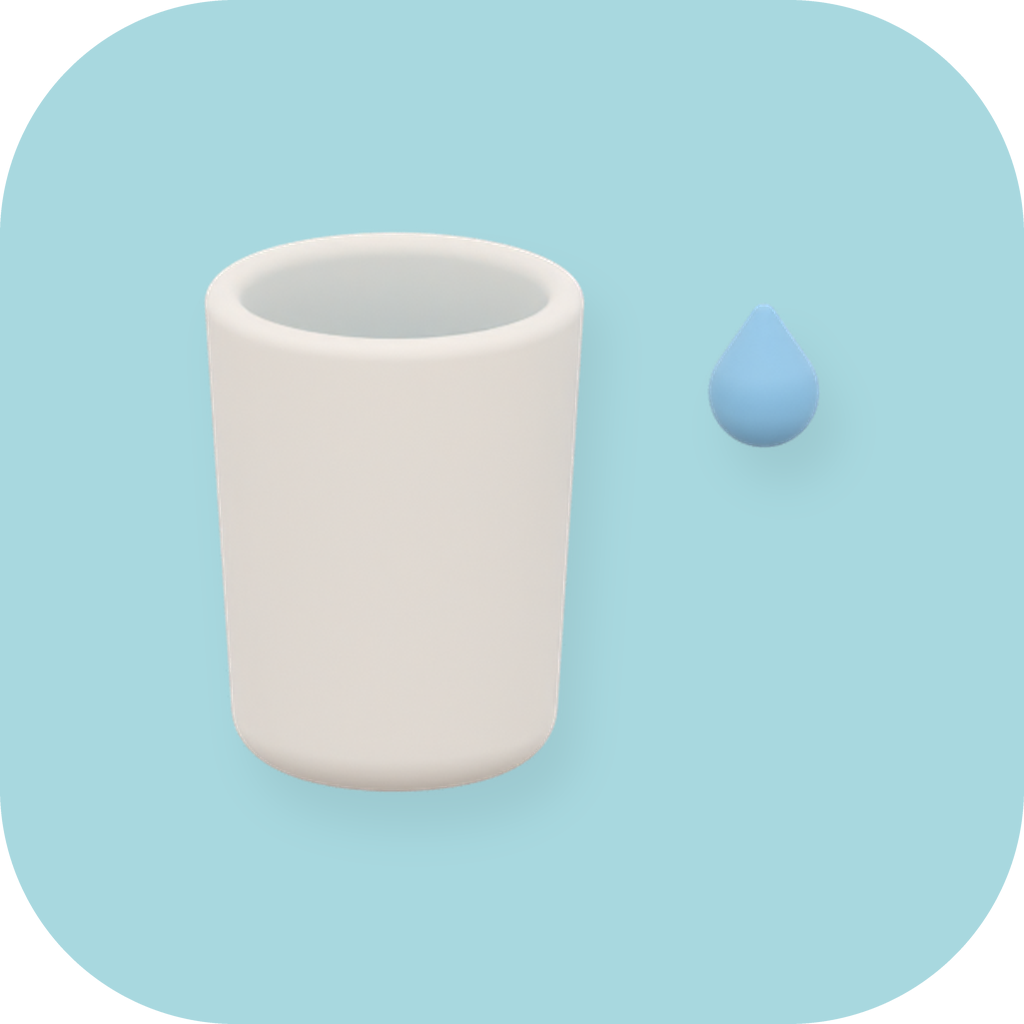
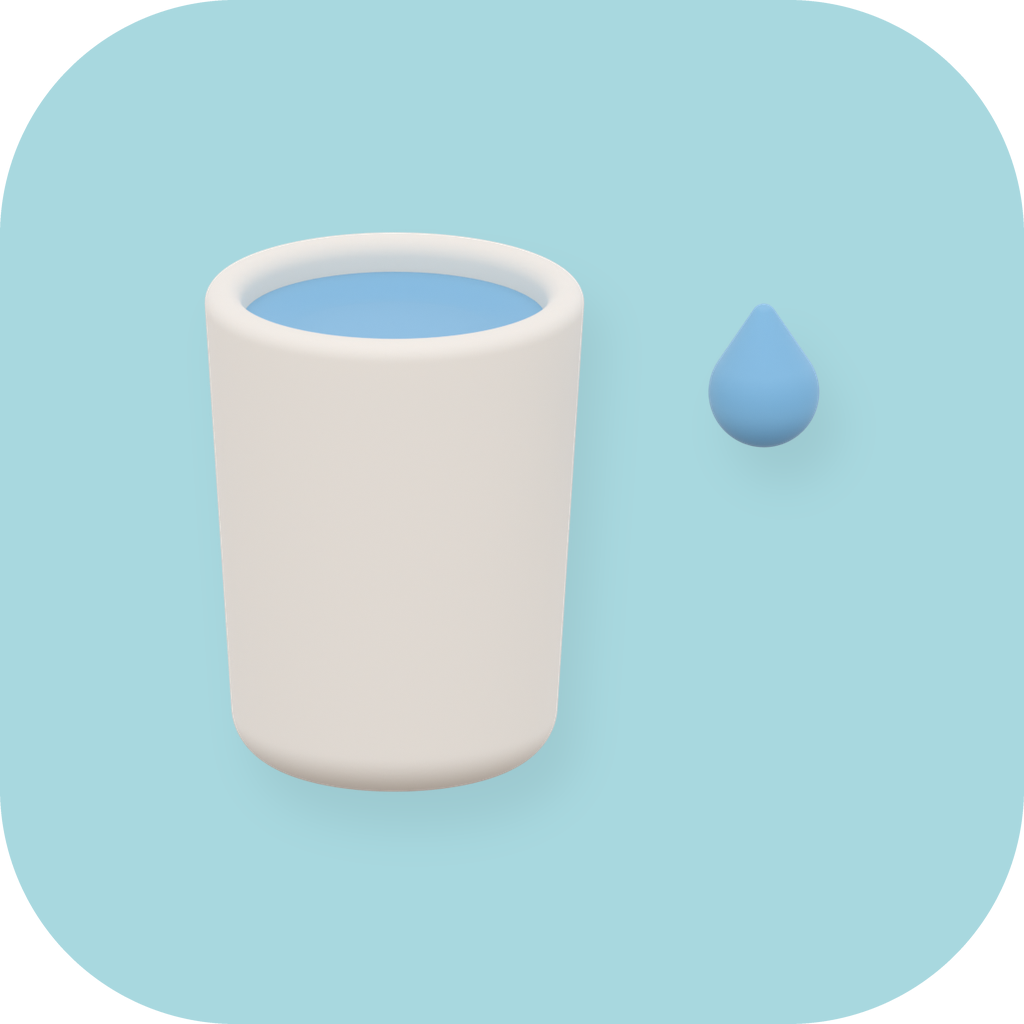
Cloud intro round 22: numbered marks on the timeline (Shift+digit sets, digit jumps)

Changed region(s): [[0.25, 0.25, 0.5312, 0.3438]]

diff --git a/intro-storyboards/cloud/index.html b/intro-storyboards/cloud/index.html
@@ -29,6 +29,13 @@ body{overflow-x:hidden}
   letter-spacing:.03em;opacity:0;pointer-events:none;white-space:nowrap;line-height:1;font-size:35px}
 .bar{display:flex;align-items:center;gap:8px;margin-top:10px;font-size:12px}
 .bar input{flex:1;min-width:0;margin:0;accent-color:var(--accent)}
+.scrubw{flex:1;min-width:0;display:flex;align-items:center;position:relative}
+.scrubw input{width:100%}
+.marks{position:absolute;left:0;right:0;top:0;height:0;pointer-events:none;--th:8px}
+.mark{position:absolute;bottom:0;transform:translateX(-50%);font-size:10px;line-height:10px;color:var(--muted);
+  text-align:center;pointer-events:none;font-variant-numeric:tabular-nums}
+.mark::after{content:"";display:block;width:1px;height:3px;margin:1px auto 0;background:currentColor}
+.keys{display:none}
 .btn{font:inherit;font-size:12px;color:var(--ink);background:var(--btn);border:1px solid var(--btnline);
   border-radius:999px;height:28px;padding:0 12px;cursor:pointer;white-space:nowrap}
 .btn.icon{width:28px;padding:0;display:inline-flex;align-items:center;justify-content:center}
@@ -61,6 +68,7 @@ body{overflow-x:hidden}
   .prow .rs{width:28px;height:28px;}
   .pfoot{position:sticky;bottom:0;background:var(--page);padding-top:8px;}
   .pfoot .pbtns{margin-top:0;}
+  .keys{display:block;margin-top:6px;font-size:11px;color:var(--muted)}
 }
 @supports (height:100dvh){ @media (min-width: 820px){
   .col{grid-template-columns:min(430px, calc((100dvh - 96px) * 390 / 844)) clamp(340px, 30vw, 420px);}
@@ -79,7 +87,7 @@ body{overflow-x:hidden}
         <svg width="12" height="12" viewBox="0 0 12 12" aria-hidden="true"><path id="playIcon" fill="currentColor" d="M2 1l9 5-9 5z"/></svg>
       </button>
       <button class="btn speed" id="speed" aria-label="Geschwindigkeit 1&times;">1&times;</button>
-      <input type="range" id="scrub" min="0" max="13.8" step="0.01" value="0" aria-label="Zeit">
+      <span class="scrubw"><input type="range" id="scrub" min="0" max="13.8" step="0.01" value="0" aria-label="Zeit"><span class="marks" id="marks" aria-hidden="true"></span></span>
       <span class="time" id="time">0.0 s</span>
     </div>
     <div class="row2">
@@ -96,6 +104,7 @@ body{overflow-x:hidden}
         <button class="btn" id="pCopy">Werte kopieren</button>
       </div>
       <div class="pline" id="pLine">alles Standard</div>
+      <div class="keys">Leertaste Play/Pause &middot; Pfeile 0,1 s &middot; Shift+1 bis 9 Marke setzen &middot; 1 bis 9 springen</div>
       </div>
     </details>
     </div>
@@ -1114,7 +1123,7 @@ function ui(){
   timeEl.textContent = cur.toFixed(1) + ' s';
   var name = STEPS[0][1];
   for (var k = 0; k < STEPS.length; k++) if (cur >= STEPS[k][0]) name = STEPS[k][1];
-  stepEl.textContent = name;
+  stepEl.textContent = performance.now() < markMsgUntil ? markMsg : name;
   playIcon.setAttribute('d', playing ? 'M2 1h3v10H2zM7 1h3v10H7z' : 'M2 1l9 5-9 5z');
   playBtn.setAttribute('aria-label', playing ? 'Pause' : 'Abspielen');
   again.hidden = cur < T_END;
@@ -1222,6 +1231,23 @@ speedBtn.addEventListener('click', function(){
 Object.defineProperty(window.__cloud, 'speed', { get: function(){ return speed; } });
 again.addEventListener('click', function(){ play(0); });
 stage.addEventListener('click', function(){ play(0); });
+// marks 1..9 on the timeline: Shift + digit sets (or removes, within 0.02 s), digit jumps. Stored per viewer.
+var MKEY = 'cloud.marks.v1', marks = {}, marksEl = document.getElementById('marks');
+try { var mSaved = JSON.parse(localStorage.getItem(MKEY) || 'null'); if (mSaved && typeof mSaved === 'object') for (var mk0 in mSaved) if (/^[1-9]$/.test(mk0) && isFinite(+mSaved[mk0])) marks[mk0] = Math.max(0, Math.min(T_END, +mSaved[mk0])); } catch (er) {}
+function marksSave(){ try { localStorage.setItem(MKEY, JSON.stringify(marks)); } catch (er) {} }
+function marksDraw(){
+  marksEl.textContent = '';
+  Object.keys(marks).sort().forEach(function(k){
+    var m = document.createElement('span'); m.className = 'mark'; m.textContent = k; m.dataset.t = String(marks[k]);
+    var fr = marks[k] / T_END;
+    m.style.left = 'calc(var(--th) + (100% - 2 * var(--th)) * ' + fr.toFixed(5) + ')';
+    marksEl.appendChild(m);
+  });
+}
+var markMsg = '', markMsgUntil = 0, markTimer = 0;
+function markNote(txt){ markMsg = txt; markMsgUntil = performance.now() + 1000; ui(); clearTimeout(markTimer); markTimer = setTimeout(ui, 1010); }
+marksDraw();
+window.__cloud.marks = function(){ var o = {}; for (var k in marks) o[k] = marks[k]; return o; };
 // time slider: dragging or clicking keeps the play state (playing resumes from the new position on release)
 var scrubResume = false;
 function scrubStart(){ if (playing){ scrubResume = true; pause(); } }
@@ -1239,6 +1265,19 @@ document.addEventListener('keydown', function(e){
   if (e.code === 'Space' || e.key === ' '){
     e.preventDefault(); e.stopPropagation();
     if (!e.repeat){ if (playing) pause(); else play(); }
+    return;
+  }
+  var dm_ = /^(Digit|Numpad)([1-9])$/.exec(e.code || '');
+  if (dm_){
+    e.preventDefault(); e.stopPropagation();
+    if (e.repeat) return;
+    var mk = dm_[2];
+    if (e.shiftKey){
+      if (dm_[1] !== 'Digit') return;
+      if (marks[mk] !== undefined && Math.abs(marks[mk] - cur) <= 0.02){ delete marks[mk]; markNote('Marke ' + mk + ' entfernt'); }
+      else { marks[mk] = cur; markNote('Marke ' + mk + ' \u00b7 ' + cur.toFixed(2) + ' s'); }
+      marksSave(); marksDraw();
+    } else if (marks[mk] !== undefined) seek(marks[mk]);   // play state kept (seek re-anchors while playing)
     return;
   }
   if (e.key === 'ArrowLeft' || e.key === 'ArrowRight'){

diff --git a/icon-lab/blender/icons/resting_heart.py b/icon-lab/blender/icons/resting_heart.py
@@ -1,0 +1,110 @@
+"""Icon #27 resting-heart: a plump coral-red heart (Health tile "Resting heart rate").
+
+Geometry only; look from clay_theme (theme untouched).
+Run: Blender -b --factory-startup --python icons/resting_heart.py -- <out_dir>
+Method: sdf_kit. 2D heart = smooth union of two uneven capsules (lobe circle -> soft bottom
+point, radius 0.06); sampled on a grid and Gaussian-blurred, so the medial ridges of the
+union leave no creases and the cleft has no saddle lips; then a puffy rounded extrusion.
+hrv.py imports the heart from here (main() runs only as the Blender script).
+Units: heart width 1.0, height 0.90, depth 0.42. X right, Z up, front at -Y.
+"""
+import math
+import os
+import sys
+
+import numpy as np
+
+HERE = os.path.dirname(os.path.abspath(__file__))
+sys.path.insert(0, os.path.dirname(HERE))
+import clay_theme as ct  # noqa: E402
+import sdf_kit as k  # noqa: E402
+
+LOBE_X, LOBE_Z, LOBE_R = 0.22, 0.17, 0.28       # width 2 x (0.22 + 0.28) = 1.0; top at 0.45
+TIP_Z, TIP_R = -0.39, 0.06                      # soft bottom point at -0.45: height 0.90
+CLEFT_K = 0.08                                  # smooth union: shallow soft cleft
+HALF, EDGE_R = 0.21, 0.17                       # depth 0.42, puffy rounding
+
+VIEW_ELEVATION_DEG = 8.0
+HEART_HEX = "#EC8174"
+HEART_GRAD = (("#F4AEA2", 0.45), ("#A8473C", 0.45))
+SHEEN = 0.10                                    # 0.15 clipped the lobe tops
+
+
+def _uneven(px, pz, ax, az, ra, bx, bz, rb):
+    """2D hull of two circles (iq uneven capsule), from a (ra) to b (rb)."""
+    h = math.hypot(bx - ax, bz - az)
+    ux, uz = (bx - ax) / h, (bz - az) / h
+    q = (px - ax) * ux + (pz - az) * uz
+    p = np.abs((px - ax) * uz - (pz - az) * ux)
+    b = (ra - rb) / h
+    a = math.sqrt(1 - b * b)
+    kk = -b * p + a * q
+    return np.where(kk < 0, np.hypot(p, q) - ra,
+                    np.where(kk > a * h, np.hypot(p, q - h) - rb, a * p + b * q - ra))
+
+
+def heart2(x, z):
+    l = _uneven(x, z, -LOBE_X, LOBE_Z, LOBE_R, 0.0, TIP_Z, TIP_R)
+    r = _uneven(x, z, LOBE_X, LOBE_Z, LOBE_R, 0.0, TIP_Z, TIP_R)
+    kk = CLEFT_K * k.ss(TIP_Z + 0.06, TIP_Z + 0.40, z) + 1e-4  # soft cleft on top, plain union at the tip (no knob)
+    return k.smin(l, r, kk)
+
+
+def _grid(step=0.002, sigma=0.022):
+    g = np.arange(-0.62, 0.62 + step / 2, step)
+    X, Z = np.meshgrid(g, g, indexing="ij")
+    F = heart2(X, Z)
+    sg = sigma / step
+    r = int(3 * sg)
+    w = np.exp(-0.5 * (np.arange(-r, r + 1) / sg) ** 2)
+    w /= w.sum()
+    F = np.pad(F, r, mode="edge")
+    F = np.apply_along_axis(lambda v: np.convolve(v, w, mode="valid"), 0, F)
+    F = np.apply_along_axis(lambda v: np.convolve(v, w, mode="valid"), 1, F)
+    return g, F
+
+
+HG, HF = _grid()
+
+
+def heart_lookup(x, z):
+    st = HG[1] - HG[0]
+    fx = np.clip((x - HG[0]) / st, 0, len(HG) - 1.001)
+    fz = np.clip((z - HG[0]) / st, 0, len(HG) - 1.001)
+    i, j = fx.astype(int), fz.astype(int)
+    u, v = fx - i, fz - j
+    return ((HF[i, j] * (1 - u) + HF[i + 1, j] * u) * (1 - v) + (HF[i, j + 1] * (1 - u) + HF[i + 1, j + 1] * u) * v)
+
+
+def heart_sdf(P):
+    return k.extrude(heart_lookup(P[:, 0], P[:, 2]), P[:, 1], 0.0, HALF, EDGE_R)
+
+
+def front_y(x, z):
+    """Front surface y of the heart at (x, z) (analytic from the rounded extrusion)."""
+    w = np.maximum(heart_lookup(x, z) + EDGE_R, 0)
+    return -(HALF - EDGE_R + np.sqrt(np.maximum(EDGE_R ** 2 - w ** 2, 0)))
+
+
+HEART_BOX = ((-0.53, -0.24, -0.49), (0.53, 0.24, 0.49))
+
+
+def main():
+    argv = sys.argv[sys.argv.index("--") + 1:] if "--" in sys.argv else []
+    out_dir = argv[0] if argv else os.path.join(os.path.dirname(HERE), "out", "resting-heart")
+    os.makedirs(out_dir, exist_ok=True)
+    ct.reset_scene()
+    heart = k.build("Heart", heart_sdf, *HEART_BOX, 0.004, 0.012)
+    k.set_colors(heart, k.graded(HEART_HEX, *HEART_GRAD, k.normals(heart.data)[:, 2]), (1, 0, 0))
+    objs = [heart]
+    k.tilt(objs, VIEW_ELEVATION_DEG)
+    mat = k.zone_material("ClayRestingHeart", SHEEN)
+    heart.data.materials.clear()
+    heart.data.materials.append(mat)
+    ct.setup_scene(objs)
+    k.light_overrides()
+    k.finish(objs, out_dir, "resting-heart")
+
+
+if __name__ == "__main__":
+    main()

diff --git a/icon-lab/blender/icons/hrv.py b/icon-lab/blender/icons/hrv.py
@@ -1,0 +1,73 @@
+"""Icon #28 hrv: the #27 heart in cream, carrying a raised coral pulse line.
+
+Geometry only; look from clay_theme (theme untouched).
+Run: Blender -b --factory-startup --python icons/hrv.py -- <out_dir>
+Method: sdf_kit. Heart from resting_heart.py. Pulse line: a swept tube (diameter 0.06)
+whose centre lies on the heart's front surface (embedded halfway), smooth-unioned with the
+heart (soft fillets); coral where the tube is nearer than the heart (vertex colour).
+Trace: flat, small peak, deep dip, tall peak, flat; spans 0.80 of the heart width.
+"""
+import os
+import sys
+
+import numpy as np
+
+HERE = os.path.dirname(os.path.abspath(__file__))
+sys.path.insert(0, os.path.dirname(HERE))
+sys.path.insert(0, HERE)
+import clay_theme as ct  # noqa: E402
+import sdf_kit as k  # noqa: E402
+import resting_heart as rh  # noqa: E402
+
+TUBE_R, FILLET = 0.03, 0.015
+BASE_Z = 0.03                                    # mid-height of the heart's broad part
+TRACE = [(-0.40, 0.0), (-0.23, 0.0), (-0.17, 0.08), (-0.06, -0.16),
+         (0.05, 0.25), (0.13, 0.0), (0.40, 0.0)]
+JOIN_K = 0.025                                   # rounded joins (soft-solid glyph)
+
+VIEW_ELEVATION_DEG = 8.0
+CREAM_HEX = "#EEEAE1"
+CREAM_GRAD = (("#F4F0EA", 0.15), ("#A89C8C", 0.30))
+CORAL_HEX = "#EF8D7A"
+CORAL_GRAD = (("#F2A08E", 0.40), ("#E08A78", 0.40))
+SHEEN = 0.10                                    # 0.15 clipped the lobe tops
+
+
+def trace2(x, z):
+    d = None
+    for (ax, az), (bx, bz) in zip(TRACE[:-1], TRACE[1:]):
+        s = k.seg2(x, z, ax, az + BASE_Z, bx, bz + BASE_Z)
+        d = s if d is None else k.smin(d, s, JOIN_K)
+    return d
+
+
+def tube_sdf(P):
+    x, y, z = P[:, 0], P[:, 1], P[:, 2]
+    return np.hypot(trace2(x, z), y - rh.front_y(x, z)) - TUBE_R
+
+
+def hrv_sdf(P):
+    return k.smin(rh.heart_sdf(P), tube_sdf(P), FILLET)
+
+
+def main():
+    argv = sys.argv[sys.argv.index("--") + 1:] if "--" in sys.argv else []
+    out_dir = argv[0] if argv else os.path.join(os.path.dirname(HERE), "out", "hrv")
+    os.makedirs(out_dir, exist_ok=True)
+    ct.reset_scene()
+    heart = k.build("Heart", hrv_sdf, *rh.HEART_BOX, 0.004, 0.012)
+    P, nz = k.get_co(heart.data), k.normals(heart.data)[:, 2]
+    w = k.ss(0.004, -0.004, tube_sdf(P) - rh.heart_sdf(P))[:, None]
+    c = k.graded(CREAM_HEX, *CREAM_GRAD, nz) * (1 - w) + k.graded(CORAL_HEX, *CORAL_GRAD, nz) * w
+    k.set_colors(heart, c, np.hstack([w, np.zeros_like(w), np.zeros_like(w)]))
+    objs = [heart]
+    k.tilt(objs, VIEW_ELEVATION_DEG)
+    mat = k.zone_material("ClayHrv", SHEEN)
+    heart.data.materials.clear()
+    heart.data.materials.append(mat)
+    ct.setup_scene(objs)
+    k.light_overrides()
+    k.finish(objs, out_dir, "hrv")
+
+
+main()

diff --git a/icon-lab/blender/icons/thirst.py b/icon-lab/blender/icons/thirst.py
@@ -20,18 +20,19 @@ import sdf_kit as k  # noqa: E402
 
 TOP_R, BOT_R, HGT, WALL = 0.31, 0.26, 0.80, 0.06
 Z0 = -HGT / 2                                   # base at z = -0.40
-ZW = Z0 + 0.70 * HGT                            # water surface: 70 % of the height
+WATER_FILL = 0.90                               # brief 70 %: at 18 deg the near rim hides a surface
+ZW = Z0 + WATER_FILL * HGT                      # that is 0.24 down in a 0.42-wide glass; 90 % shows it
 TAPER = (TOP_R - BOT_R) / HGT
 BASE_R = 0.08                                   # soft base corner
 DROP_H, DROP_R1, DROP_R2 = 0.24, 0.09, 0.02
 DROP_X = -TOP_R + 1.0 - DROP_R1                 # whole group 1.0 wide
-DROP_Z = ZW + 0.06                              # bottom-sphere centre: upper right, floating
+DROP_Z = Z0 + 0.62                              # bottom-sphere centre: upper right, floating
 
 VIEW_ELEVATION_DEG = 18.0
 CREAM_HEX = "#EEEAE1"
-CREAM_GRAD = (("#F6F2EC", 0.20), ("#B4A99B", 0.25))
-WATER_HEX = "#8CC4E6"
-WATER_GRAD = (("#B6DFF4", 0.40), ("#5A96C0", 0.50))
+CREAM_GRAD = (("#F8F4EE", 0.25), ("#A89C8C", 0.45))
+WATER_HEX = "#7CB8E0"
+WATER_GRAD = (("#A8D6F0", 0.25), ("#4A86B4", 0.60))
 SHEEN = 0.15
 
 

diff --git a/icon-lab/blender/icons/fatigue.py b/icon-lab/blender/icons/fatigue.py
@@ -28,7 +28,7 @@ CREAM_HEX = "#EEEAE1"
 CREAM_GRAD = (("#F6F2EC", 0.20), ("#B4A99B", 0.25))
 GREY_HEX = "#BFB6AA"                                # warm grey middle tone in the inset
 CORAL_HEX = "#EF8D7A"
-CORAL_GRAD = (("#F2A08E", 0.40), ("#D07563", 0.40))
+CORAL_GRAD = (("#F8A894", 0.50), ("#D88270", 0.30))
 SHEEN = 0.15
 
 
@@ -67,7 +67,7 @@ def main():
     c = k.graded(CREAM_HEX, *CREAM_GRAD, nz)
     w = k.rrect(P[:, 0], P[:, 2], WIN_W / 2, WIN_H / 2, WIN_R)
     g = (k.ss(0.004, -0.006, w) * k.ss(FRONT + 0.05, FRONT + 0.03, P[:, 1]))[:, None]
-    k.set_colors(body, c * (1 - g) + k.lin(GREY_HEX) * g, (0, 0, 0))
+    k.set_colors(body, c * (1 - g) + k.lin(GREY_HEX) * g, np.hstack([0 * g, 0 * g, g]))   # inset: blue in the mask
     nub = k.build("Nub", nub_sdf, (0.44, -0.11, -0.14), (0.60, 0.11, 0.14), 0.003, 0.010)
     k.set_colors(nub, k.graded(CREAM_HEX, *CREAM_GRAD, k.normals(nub.data)[:, 2]), (0, 1, 0))
     pill = k.build("Pill", pill_sdf, (PILL_X - 0.13, FRONT - 0.06, -0.15), (PILL_X + 0.13, FRONT + 0.10, 0.15),
